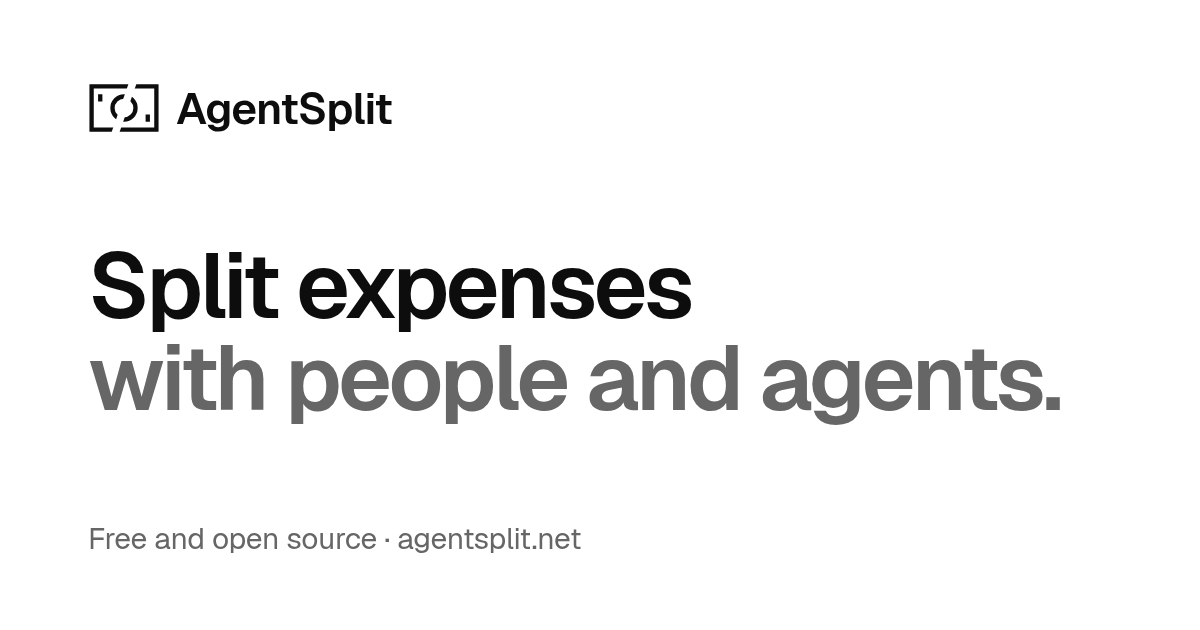
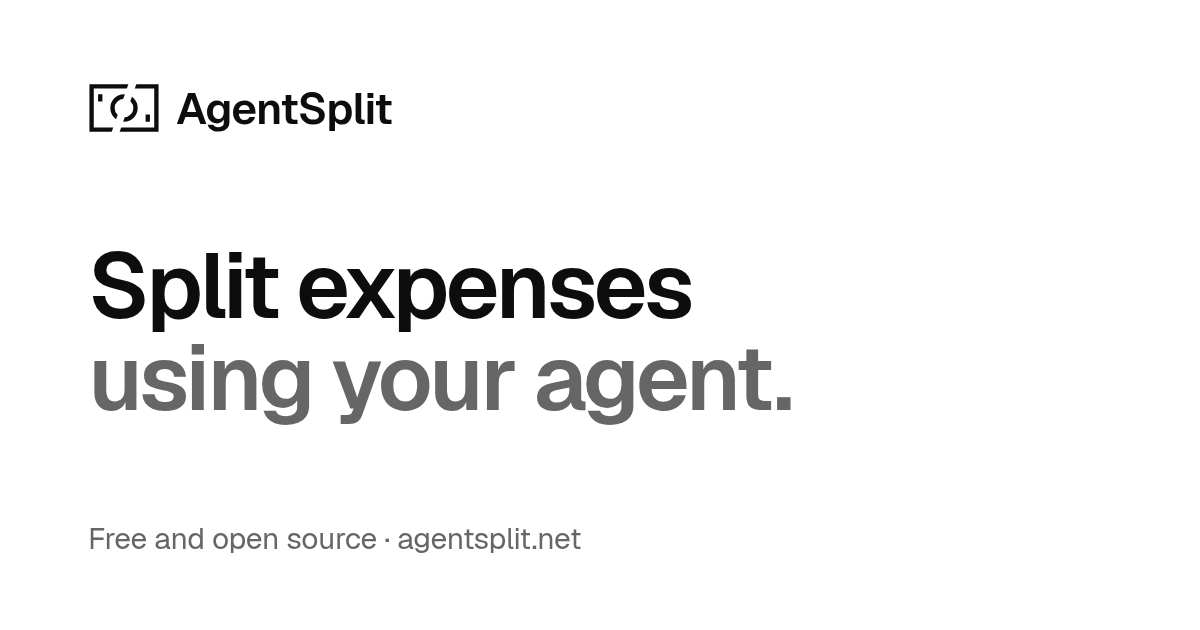
The tagline is "Split expenses using your agent"
People split expenses with people, not with agents; the agent is the
tool. The home page, the page title and link previews, the app manifest,
the preview banner and the README say so.

Changed region(s): [[0.0617, 0.5429, 0.8942, 0.6937]]

diff --git a/index.html b/index.html
@@ -3,7 +3,7 @@
   <head>
     <meta charset="UTF-8" />
     <meta name="viewport" content="width=device-width, initial-scale=1, viewport-fit=cover" />
-    <title>AgentSplit · Split expenses with people and agents</title>
+    <title>AgentSplit · Split expenses using your agent</title>
     <meta name="description" content="Record shared expenses and payments, and see who owes whom. Use the website or your AI agent." />
     <meta name="application-name" content="AgentSplit" />
     <!-- The browser and status bar match the page; theme.js keeps them on a theme the user chose. -->
@@ -12,13 +12,13 @@
     <meta name="mobile-web-app-capable" content="yes" />
     <meta name="apple-mobile-web-app-capable" content="yes" />
     <meta name="apple-mobile-web-app-title" content="AgentSplit" />
-    <meta property="og:title" content="AgentSplit · Split expenses with people and agents" />
+    <meta property="og:title" content="AgentSplit · Split expenses using your agent" />
     <meta property="og:description" content="Record shared expenses and payments, and see who owes whom. Use the website or your AI agent." />
     <meta property="og:image" content="/banner.png" />
     <meta property="og:type" content="website" />
     <meta property="og:url" content="/" />
     <meta name="twitter:card" content="summary_large_image" />
-    <meta name="twitter:title" content="AgentSplit · Split expenses with people and agents" />
+    <meta name="twitter:title" content="AgentSplit · Split expenses using your agent" />
     <meta name="twitter:description" content="Record shared expenses and payments, and see who owes whom. Use the website or your AI agent." />
     <meta name="twitter:image" content="/banner.png" />
     <link rel="manifest" href="/manifest.webmanifest" />

diff --git a/src/client/routes/index.tsx b/src/client/routes/index.tsx
@@ -65,7 +65,7 @@ function Landing() {
       <section className="w-full py-16">
         <div className="mx-auto flex w-full max-w-screen-md flex-col items-center gap-6 px-4 text-center">
           <h1 className="py-2 font-display text-4xl leading-none! sm:text-5xl md:text-6xl">
-            Split expenses <strong className="block font-semibold text-muted-foreground">with people and agents.</strong>
+            Split expenses <strong className="block font-semibold text-muted-foreground">using your agent.</strong>
           </h1>
           <p className="max-w-lg leading-normal text-pretty text-muted-foreground sm:text-xl sm:leading-8">
             Record shared expenses and payments, and see who owes whom. Use the website or your AI agent.

diff --git a/README.md b/README.md
@@ -1,6 +1,6 @@
 # AgentSplit
 
-Self-hosted shared expenses for people and their agents.
+Split expenses using your agent. Free and open source.
 
 AgentSplit is a fork of [Spliit](https://github.com/spliit-app/spliit). People sign in with Google and keep private groups. Each group has expenses, payments, balances per currency, recurring expenses, receipts, statistics, an activity history and CSV or JSON exports. Expenses without a group are private to the people in them. An expense can have several payers. Agents use the same ledger through the [MCP API](MCP.md).
 
